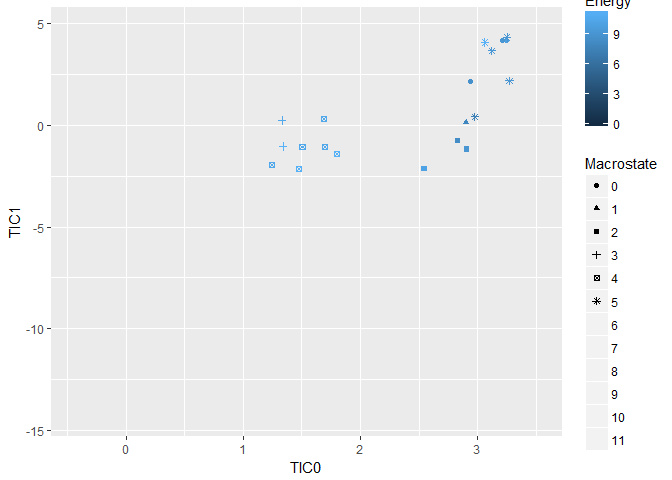
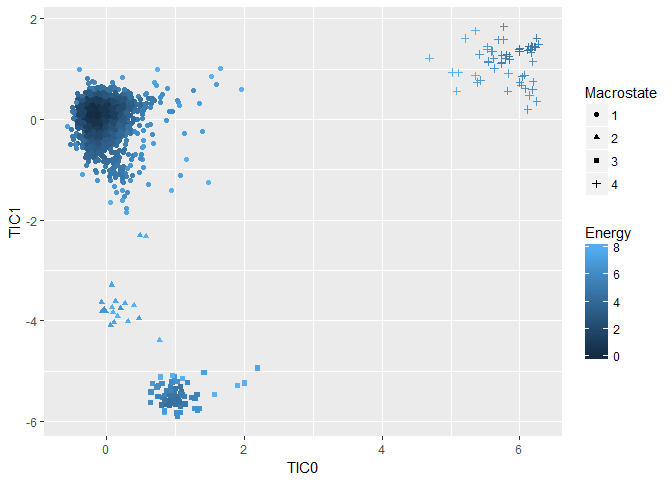
old data revert

diff --git a/content/tutorials/scatterplot.md b/content/tutorials/scatterplot.md
@@ -2,7 +2,7 @@ Import Data
 -----------
 
     #---Loading data
-    load(url('https://github.com/MingChen0919/gst-colloquium-workshop-2018/raw/master/content/datasets/GST-WS.RData'))
+    load(url('https://github.com/MingChen0919/gst-colloquium-workshop-2018/raw/master/content/datasets/datasets.RData'))
 
 Load ggplot2 library
 --------------------
@@ -63,16 +63,16 @@ Visualization
       
       ##----map data values to visual values
       scale_x_continuous(name = "TIC-0", 
-                         breaks = c(0, 1, 2, 3, 4),
-                         limits = c(0, 4)) +
+                         breaks = c(0, 1, 2, 3, 4, 5, 6),
+                         limits = c(0, 6)) +
       scale_y_continuous(name = "TIC-1",
-                         breaks = -16:5, 
+                         breaks = -7:3, 
                          trans = "reverse",
-                         limits = c(5, -16)) +
-      scale_color_manual(values = c("0" = "black", "1" = "red", "2" = "blue", "3" = "yellow", "4" = "green", "5" = "purple", "6" = "pink", "7" = "grey", "8" = "brown", "9" = "coral", "10" = "mediumaquamarine", "11" = "orange"),
+                         limits = c(3, -7)) +
+      scale_color_manual(values = c("1" = "red", "2" = "blue", "3" = "yellow", "4" = "green"),
                          name = "Macrostate", 
-                         breaks = c(0,1,2,3,4,5,6,7,8,9,10,11),
-                         labels = c('state 0', 'state 1', 'state 2', 'state 3', 'state 4', 'state 5', 'state 6', 'state 7', 'state 8', 'state 9', 'state 10', 'state 11')) + 
+                         breaks = c(1,2,3,4),
+                         labels = c('state 1', 'state 2', 'state 3', 'state 4')) + 
       theme_classic()
 
 ![](scatterplot_files/figure-markdown_strict/unnamed-chunk-4-1.png)
@@ -132,10 +132,10 @@ Visualization
       ##----map data values to visual values
       scale_x_continuous(name = "TIC-0") +
       scale_y_continuous(name = "TIC-1",
-                         breaks = -15:5) +
+                         breaks = -7:3) +
       scale_color_gradient(low="blue", high="red",
-                           breaks = 0:11) +
-      scale_shape_manual(values = c("0" = 0, "1" = 1, "2" = 2, "3" = 3, "4" = 4, "5" = 5, "6" = 6, "7" = 7, "8" = 8, "9" = 9, "10" = 10, "11" = 11),
+                           breaks = 0:8) +
+      scale_shape_manual(values = c("1" = 1, "2" = 2, "3" = 3, "4" = 4),
                          name = "Macrostate") +
       theme_classic()
 
@@ -160,7 +160,7 @@ Visualization
 
     #---plot five
     ggplot(energy_tics) +
-      geom_point(mapping = aes(x = TIC0, y = TIC1, shape = as.factor(macrostate)),
+      geom_point(mapping = aes(x = TIC0, y = TIC1, fill = Energy, shape = as.factor(macrostate)),
                  stat = "identity", position = "identity", inherit.aes = FALSE) +
       geom_path(mapping = aes(x = TIC0, y = TIC1, color = as.factor(macrostate)), 
                 stat = "ellipse", inherit.aes = FALSE) + 
@@ -170,9 +170,10 @@ Visualization
       ##----map data values to visual values
       scale_x_continuous(name = "TIC-0") +
       scale_y_continuous(name = "TIC-1") +
-      scale_shape_manual(values = c("0" = 0, "1" = 1, "2" = 2, "3" = 3, "4" = 4, "5" = 5, "6" = 6, "7" = 7, "8" = 8, "9" = 9, "10" = 10, "11" = 11)) +
+      scale_shape_manual(values = c("1" = 21, "2" = 22, "3" = 23, "4" = 24)) +
       scale_color_discrete() +
-      theme(legend.position = "bottom") +
+      scale_fill_gradient(low = "blue", high = "red") +
+      theme() +
       
       ##---change macrostate legend label
       labs(shape="Macrostate", color = "Macrostate") 
